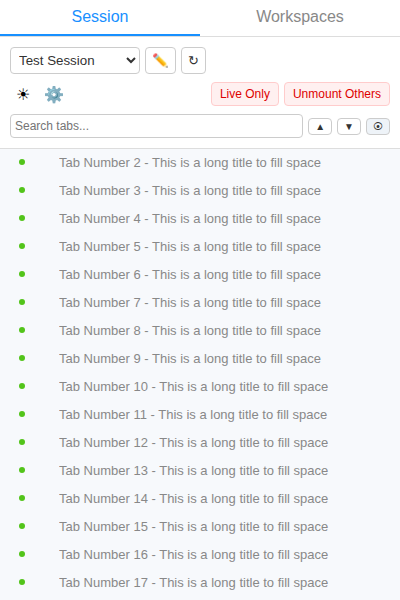
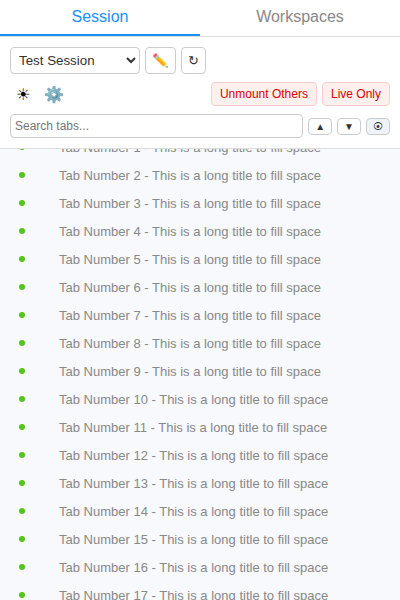
feat: Add new tab button to session panel (#69)
* feat: add "Add new tab" button to session panel

- Added a green round `+` button (`#add-new-tab-btn`) next to the "Live Only" button in `src/sidebar.html`.
- Styled the new button in `src/styles.css` using `border-radius: 50%` and `#4CAF50`.
- Handled clicks on the button in `src/sidebar.js` and sent an `ADD_NEW_TAB` message.
- Handled the `ADD_NEW_TAB` message in `src/background.js`:
  - Determined the `insertIndex` by looking at the currently active tab.
  - Inserted immediately after the active tab (by default).
  - Inserted at the end of the current tab group or window list if the CTRL key is held.

* fix: address PR69 bot review feedback

Root causes: ADD_NEW_TAB logic lacked explanatory branch comments, verification script used machine-specific paths, UI button contrast was low, and placeholder tests left grouping/index behavior unvalidated.

Fixes: documented ADD_NEW_TAB control-flow and grouping rationale, switched verification artifacts to repo-relative paths, improved button text contrast, and implemented executable coverage for grouped/ungrouped and active/no-active insertion paths.

Harness: OpenCode CLI (openai/gpt-5.3-codex).

* feat: add "Add new tab" button to session panel

- Added a green round `+` button (`#add-new-tab-btn`) next to the "Live Only" button in `src/sidebar.html`.
- Styled the new button in `src/styles.css` using `border-radius: 50%` and `#4CAF50`.
- Handled clicks on the button in `src/sidebar.js` and sent an `ADD_NEW_TAB` message.
[…]

Changed region(s): [[0.15, 0.24, 0.84, 1.0], [0.03, 0.27, 0.06, 1.0], [0.54, 0.12, 0.96, 0.18]]

diff --git a/test/test_chrome_tabs_create.js b/test/test_chrome_tabs_create.js
@@ -1,0 +1,80 @@
+const assert = require('assert');
+
+// This test validates Ctrl-specific insertion behavior.
+async function runTest() {
+    console.log('Starting test_chrome_tabs_create.js...');
+
+    const { listeners } = await import('./mock_chrome.js');
+    await import('../src/background.js');
+
+    const wait = (ms) => new Promise((resolve) => setTimeout(resolve, ms));
+
+    // Extend mock query for this test so group filtering is realistic.
+    const originalQuery = chrome.tabs.query;
+    chrome.tabs.query = async (queryInfo) => {
+        const tabs = await originalQuery(queryInfo);
+        if (queryInfo.groupId === undefined) return tabs;
+        return tabs.filter((tab) => tab.groupId === queryInfo.groupId);
+    };
+
+    const originalCreate = chrome.tabs.create;
+    const originalGroup = chrome.tabs.group;
+    const createCalls = [];
+    const groupCalls = [];
+
+    chrome.tabs.create = async (data) => {
+        createCalls.push({ ...data });
+        return originalCreate(data);
+    };
+    chrome.tabs.group = async (data) => {
+        groupCalls.push({ ...data });
+        return originalGroup(data);
+    };
+
+    const window = await chrome.windows.create({ focused: true });
+    const groupedA = await chrome.tabs.create({ windowId: window.id, active: false, index: 0, groupId: 7, title: 'Grouped A' });
+    const groupedB = await chrome.tabs.create({ windowId: window.id, active: true, index: 2, groupId: 7, title: 'Grouped B Active' });
+    await chrome.tabs.create({ windowId: window.id, active: false, index: 3, groupId: -1, title: 'Ungrouped tail' });
+
+    if (listeners['onInstalled']) listeners['onInstalled']();
+    await wait(100);
+
+    // Ignore setup calls and start assertions from ADD_NEW_TAB behavior only.
+    createCalls.length = 0;
+    groupCalls.length = 0;
+
+    // Case 1: Ctrl + grouped active tab => insert after highest index in that group.
+    await new Promise((resolve) => {
+        listeners['onMessage']({ type: 'ADD_NEW_TAB', windowId: window.id, ctrlKey: true }, {}, resolve);
+    });
+
+    assert.ok(createCalls.length >= 1, 'chrome.tabs.create should be called for Ctrl + grouped path');
+    assert.strictEqual(createCalls[0].index, groupedB.index + 1, 'Ctrl + grouped should insert after highest group index');
+    assert.ok(groupCalls.length >= 1, 'Ctrl + grouped should preserve group via chrome.tabs.group');
+    assert.strictEqual(groupCalls[0].groupId, 7, 'Ctrl + grouped should keep original group');
+
+    // Case 2: Ctrl + ungrouped active tab => omit index and avoid grouping.
+    const allTabsBeforeUngroupedCase = await chrome.tabs.query({ windowId: window.id });
+    for (const tab of allTabsBeforeUngroupedCase) {
+        await chrome.tabs.update(tab.id, { active: false });
+    }
+    const ungrouped = await chrome.tabs.create({ windowId: window.id, active: true, index: 5, groupId: -1, title: 'Ungrouped Active' });
+    assert.ok(ungrouped, 'Ungrouped active tab should be created for scenario setup');
+    const createCallCountBeforeSecondCtrl = createCalls.length;
+
+    await new Promise((resolve) => {
+        listeners['onMessage']({ type: 'ADD_NEW_TAB', windowId: window.id, ctrlKey: true }, {}, resolve);
+    });
+
+    assert.ok(createCalls.length > createCallCountBeforeSecondCtrl, 'Second Ctrl path should call create again');
+    const secondCtrlCreateCall = createCalls[createCalls.length - 1];
+    assert.strictEqual(Object.prototype.hasOwnProperty.call(secondCtrlCreateCall, 'index'), false, 'Ctrl + ungrouped should omit insertion index');
+    assert.strictEqual(groupCalls.length, 1, 'Ctrl + ungrouped should not call chrome.tabs.group');
+
+    console.log('test_chrome_tabs_create.js passed.');
+}
+
+runTest().catch((error) => {
+    console.error('test_chrome_tabs_create.js failed:', error);
+    process.exit(1);
+});

diff --git a/test/test_add_new_tab.js b/test/test_add_new_tab.js
@@ -1,0 +1,69 @@
+const assert = require('assert');
+
+// This test validates the default insertion branch (no Ctrl)
+// and the fallback branch when no active tab exists.
+async function runTest() {
+    console.log('Starting test_add_new_tab.js...');
+
+    const { listeners } = await import('./mock_chrome.js');
+    await import('../src/background.js');
+
+    const wait = (ms) => new Promise((resolve) => setTimeout(resolve, ms));
+
+    // Capture calls so we can assert index and grouping behavior.
+    const originalCreate = chrome.tabs.create;
+    const originalGroup = chrome.tabs.group;
+    const createCalls = [];
+    const groupCalls = [];
+
+    chrome.tabs.create = async (data) => {
+        createCalls.push({ ...data });
+        return originalCreate(data);
+    };
+    chrome.tabs.group = async (data) => {
+        groupCalls.push({ ...data });
+        return originalGroup(data);
+    };
+
+    // Scenario setup.
+    const window = await chrome.windows.create({ focused: true });
+    const tab1 = await chrome.tabs.create({ windowId: window.id, active: false, index: 0, groupId: -1, title: 'Tab 1' });
+    const tab2 = await chrome.tabs.create({ windowId: window.id, active: true, index: 1, groupId: 444, title: 'Tab 2' });
+
+    if (listeners['onInstalled']) listeners['onInstalled']();
+    await wait(100);
+
+    // Ignore setup calls and start assertions from ADD_NEW_TAB behavior only.
+    createCalls.length = 0;
+    groupCalls.length = 0;
+
+    // Case 1: no Ctrl => index is active index + 1 and group is inherited.
+    await new Promise((resolve) => {
+        listeners['onMessage']({ type: 'ADD_NEW_TAB', windowId: window.id, ctrlKey: false }, {}, resolve);
+    });
+
+    assert.ok(createCalls.length >= 1, 'chrome.tabs.create should be called');
+    assert.strictEqual(createCalls[0].index, tab2.index + 1, 'No Ctrl should insert after active tab');
+    assert.strictEqual(groupCalls.length >= 1, true, 'Grouped active tab should trigger chrome.tabs.group');
+    assert.strictEqual(groupCalls[0].groupId, 444, 'No Ctrl should inherit active tab group');
+
+    // Case 2: no active tab => index and group are omitted safely.
+    const allTabsBeforeCaseTwo = await chrome.tabs.query({ windowId: window.id });
+    for (const tab of allTabsBeforeCaseTwo) {
+        await chrome.tabs.update(tab.id, { active: false });
+    }
+
+    await new Promise((resolve) => {
+        listeners['onMessage']({ type: 'ADD_NEW_TAB', windowId: window.id, ctrlKey: false }, {}, resolve);
+    });
+
+    assert.ok(createCalls.length >= 2, 'Second add tab call should be created');
+    assert.strictEqual(Object.prototype.hasOwnProperty.call(createCalls[1], 'index'), false, 'No active tab should omit insertion index');
+
+    console.log('test_add_new_tab.js passed.');
+}
+
+runTest().catch((error) => {
+    console.error('test_add_new_tab.js failed:', error);
+    process.exit(1);
+});

diff --git a/src/background.js b/src/background.js
@@ -1726,6 +1726,11 @@ chrome.runtime.onMessage.addListener((message, sender, sendResponse) => {
                     sendResponse({ success: true });
                     break;
                 }
+                case "ADD_NEW_TAB": {
+                    await handleAddNewTab(message.windowId, message.ctrlKey);
+                    sendResponse({ success: true });
+                    break;
+                }
                 case "MOVE_LOGICAL_TABS": {
                     await handleMoveLogicalTabs(
                         message.windowId,
@@ -1953,6 +1958,58 @@ async function focusOrMountLogicalTab(windowId, logicalId) {
 
     session.lastActiveLogicalTabId = logicalId;
     notifySidebarStateUpdated(windowId, sessionId);
+}
+
+async function handleAddNewTab(windowId, ctrlKey) {
+    const sessionId = state.windowToSession[windowId];
+    if (!sessionId) return;
+
+    // Find the active live tab to decide where the new tab should be inserted.
+    const activeTabs = await chrome.tabs.query({ windowId, active: true });
+    const activeTab = activeTabs.length > 0 ? activeTabs[0] : null;
+
+    let insertIndex;
+    let groupId;
+
+    if (activeTab) {
+        if (!ctrlKey) {
+            // No Ctrl: insert right after the active tab and inherit its group when present.
+            insertIndex = activeTab.index + 1;
+            groupId = activeTab.groupId !== -1 ? activeTab.groupId : undefined;
+        } else {
+            if (activeTab.groupId !== -1) {
+                // Ctrl + grouped active tab: append after the last tab in that group.
+                const groupTabs = await chrome.tabs.query({ windowId, groupId: activeTab.groupId });
+                let highestIndex = -1;
+                for (const t of groupTabs) {
+                    if (t.index > highestIndex) highestIndex = t.index;
+                }
+                insertIndex = highestIndex + 1;
+                groupId = activeTab.groupId;
+            } else {
+                // Ctrl + ungrouped active tab: omit index so Chrome opens at the window end.
+                insertIndex = undefined;
+                groupId = undefined;
+            }
+        }
+    }
+
+    try {
+        const createProps = { windowId, url: 'chrome://newtab/', active: true };
+        // When index is undefined we intentionally let Chrome choose the insertion point.
+        if (insertIndex !== undefined) {
+            createProps.index = insertIndex;
+        }
+
+        const newTab = await chrome.tabs.create(createProps);
+
+        // Grouping is applied after creation because the tab ID is only known post-create.
+        if (groupId !== undefined) {
+            await chrome.tabs.group({ tabIds: newTab.id, groupId: groupId });
+        }
+    } catch (e) {
+        console.error("Failed to add new tab", e);
+    }
 }
 
 async function handleDeleteLogicalTab(windowId, logicalId) {

diff --git a/src/sidebar.js b/src/sidebar.js
@@ -6,6 +6,7 @@ const renameSessionBtn = document.getElementById('rename-session-btn');
 const refreshSessionsBtn = document.getElementById('refresh-sessions');
 const unmountOthersBtn = document.getElementById('unmount-others-btn');
 const showLiveOnlyBtn = document.getElementById('show-live-only-btn');
+const addNewTabBtn = document.getElementById('add-new-tab-btn');
 const themeToggleBtn = document.getElementById('theme-toggle-btn');
 const settingsBtn = document.getElementById('settings-btn');
 const tabsContainer = document.getElementById('tabs-container');
@@ -61,6 +62,7 @@ async function init() {
     sessionSelector.addEventListener('change', onSessionSwitch);
     unmountOthersBtn.addEventListener('click', onUnmountOthers);
     showLiveOnlyBtn.addEventListener('click', onShowLiveOnlyToggle);
+    addNewTabBtn.addEventListener('click', onAddNewTab);
     themeToggleBtn.addEventListener('click', toggleTheme);
     settingsBtn.addEventListener('click', () => chrome.runtime.openOptionsPage());
 
@@ -617,6 +619,17 @@ function onShowLiveOnlyToggle() {
             scrollToActiveTab();
         });
     }
+}
+
+function onAddNewTab(event) {
+    if (!currentSession) return;
+    chrome.runtime.sendMessage({
+        type: "ADD_NEW_TAB",
+        windowId: currentWindowId,
+        ctrlKey: event.ctrlKey
+    }).catch(err => {
+        console.error("Failed to add new tab:", err);
+    });
 }
 
 // --- Rendering ---

diff --git a/src/styles.css b/src/styles.css
@@ -216,6 +216,27 @@ body.dark-mode .top-level-tab.active {
   border-color: var(--active-border);
 }
 
+#add-new-tab-btn {
+  border-radius: 50%;
+  background-color: #4CAF50;
+  color: #1f2937;
+  width: 24px;
+  height: 24px;
+  border: none;
+  cursor: pointer;
+  display: grid;
+  place-items: center;
+  line-height: 1;
+  font-weight: bold;
+  font-size: 16px;
+  padding: 0;
+  flex-shrink: 0;
+}
+
+#add-new-tab-btn:hover {
+  background-color: #45a049;
+}
+
 /* Search Styles */
 .search-container {
   display: flex;

diff --git a/src/sidebar.html b/src/sidebar.html
@@ -31,6 +31,7 @@
           <div class="header-right-group">
             <button type="button" id="unmount-others-btn" title="Unmount all tabs except current/selected">Unmount Others</button>
             <button type="button" id="show-live-only-btn" title="Toggle: Show only mounted tabs">Live Only</button>
+            <button type="button" id="add-new-tab-btn" title="Add new tab">＋</button>
           </div>
         </div>
         <div class="search-container">

diff --git a/test/test_chrome_group_behavior.js b/test/test_chrome_group_behavior.js
@@ -1,0 +1,1 @@
+// Actually we can't easily test chrome.tabs.group without a browser environment.

diff --git a/test/verification/verify_add_tab_button.py b/test/verification/verify_add_tab_button.py
@@ -1,0 +1,36 @@
+from pathlib import Path
+
+from playwright.sync_api import sync_playwright
+
+
+REPO_ROOT = Path(__file__).resolve().parents[2]
+VERIFICATION_DIR = REPO_ROOT / "verification"
+SCREENSHOTS_DIR = VERIFICATION_DIR / "screenshots"
+VIDEOS_DIR = VERIFICATION_DIR / "videos"
+
+def run_cuj(page):
+    page.goto(f"file://{(REPO_ROOT / 'src' / 'sidebar.html').resolve()}")
+    page.wait_for_timeout(500)
+
+    # Check if the Add New Tab button is visible
+    button = page.locator("#add-new-tab-btn")
+    assert button.is_visible()
+    assert button.text_content() == "＋"
+
+    # Take a screenshot
+    SCREENSHOTS_DIR.mkdir(parents=True, exist_ok=True)
+    page.screenshot(path=str(SCREENSHOTS_DIR / "verification.png"))
+    page.wait_for_timeout(1000)
+
+if __name__ == "__main__":
+    with sync_playwright() as p:
+        browser = p.chromium.launch(headless=True, args=["--disable-web-security"])
+        context = browser.new_context(
+            record_video_dir=str(VIDEOS_DIR)
+        )
+        page = context.new_page()
+        try:
+            run_cuj(page)
+        finally:
+            context.close()
+            browser.close()
